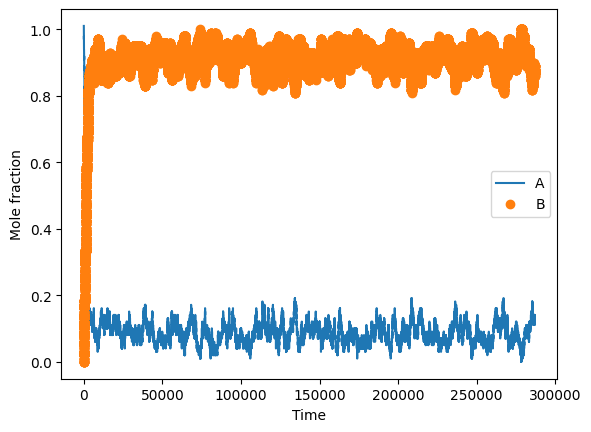
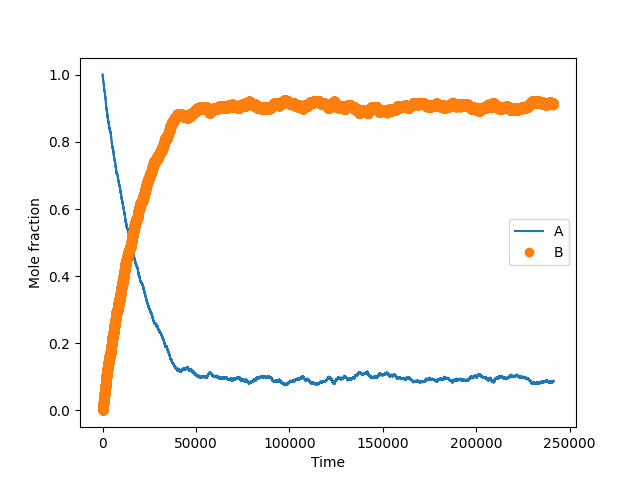
fix error

Changed region(s): [[0.0, 0.0602, 1.0, 0.9931], [0.0305, 0.2106, 0.0914, 0.2407], [0.0305, 0.0602, 0.0914, 0.0903]]

diff --git a/_site/kinetics/tutorials/2023/07/23/KMC_tutorial_1_equilibrium.html b/_site/kinetics/tutorials/2023/07/23/KMC_tutorial_1_equilibrium.html
@@ -178,9 +178,9 @@ containing 1000 molecules of <em>A</em> and zero molecules of <em>B</em>. The si
 
   <p>L = 0 # initial state: 0 – empty; 1 – A*; 2 – B*</p>
 
-  <p>N_A = 100 # A adsorption constant</p>
+  <p>N_A = 1000 # number of A</p>
 
-  <p>N_B = 0 # B adsorption constant</p>
+  <p>N_B = 0 # number of B</p>
 
   <p>trials = 100000</p>
 
